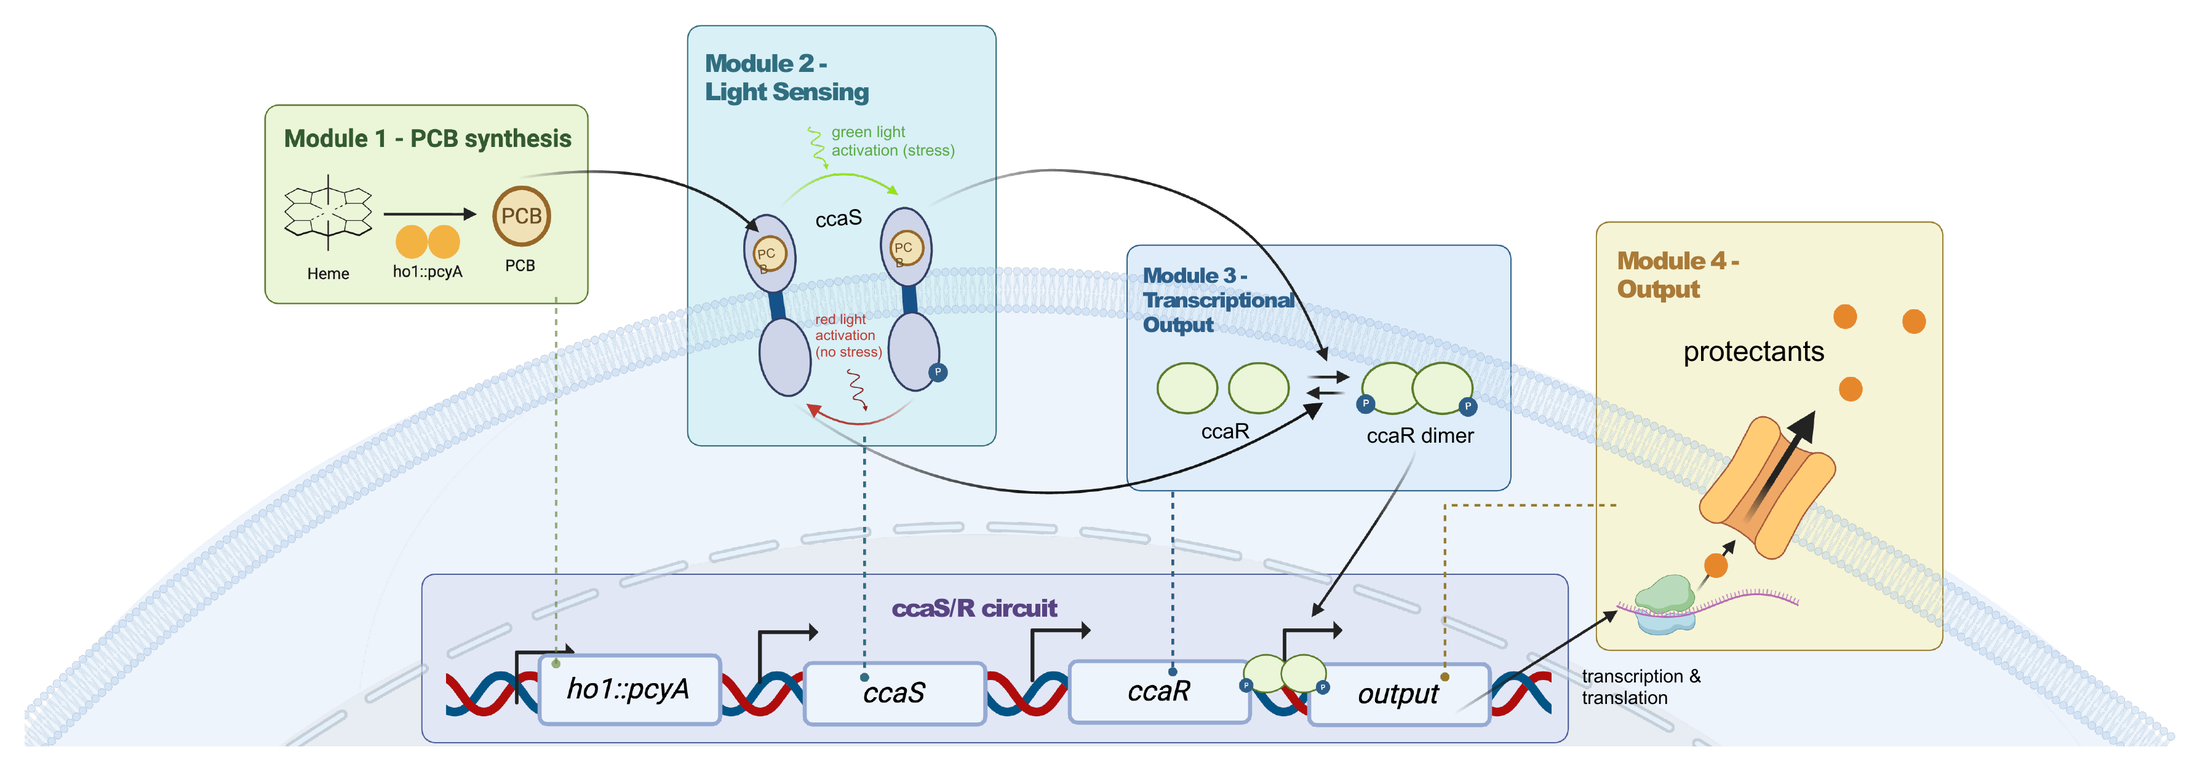
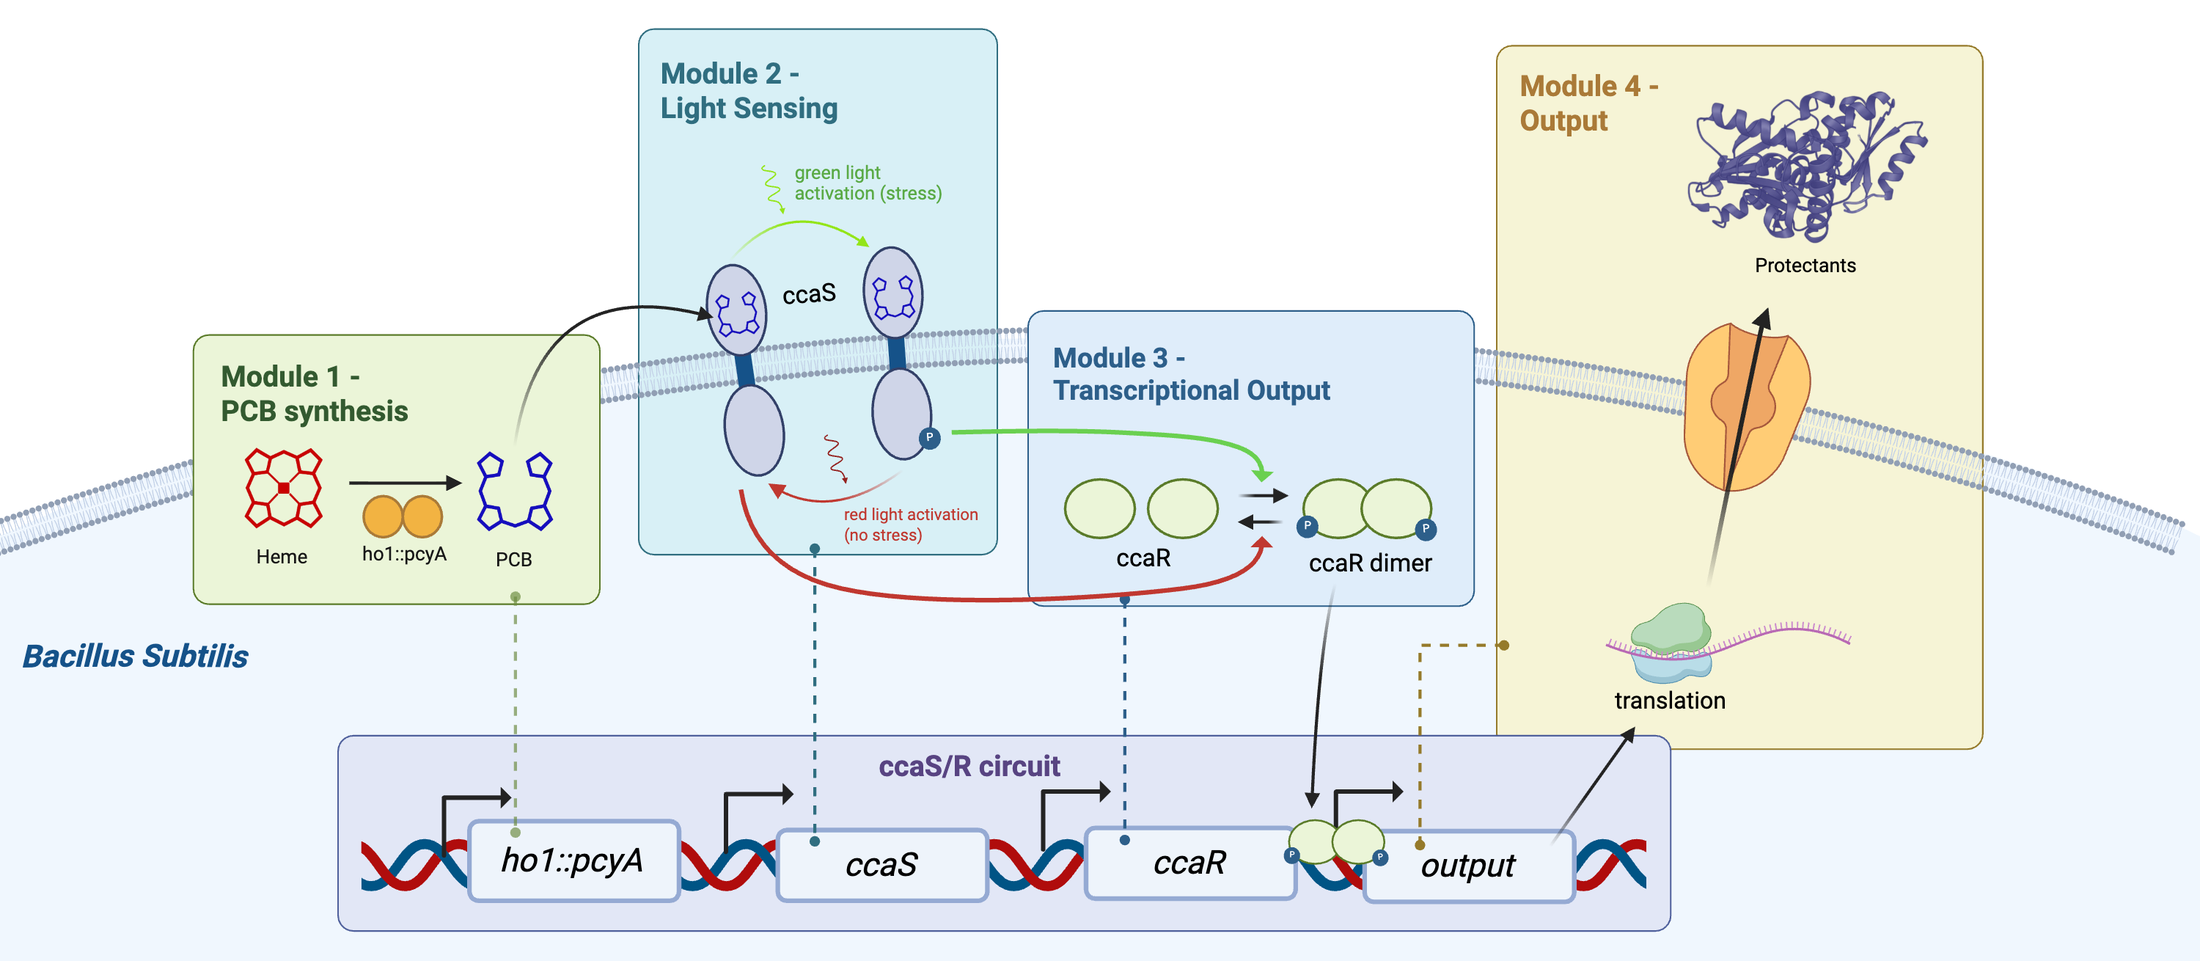
Homepage: line breaks, the new circuit figure, and a smaller nav card
- Hero caption breaks after "with", so the machine's name starts the
  second line instead of a stranded "a".
- Circuit step 4 no longer names the three proteins: "the output slot
  takes multiple protectants for different plant stresses".
- The vision gloss holds one line and never breaks. It is about 31 times
  its own font size wide, so below the width that fits it takes the
  viewport's measure; a phone wraps it instead. The &nbsp; that held
  "plant protection" together is gone with the old balance.
- The circuit figure is the team's new drawing, trimmed of the blank top
  38% of the source and rebuilt at 2200/1400 (now 3:1.3, was 2.85:1).
  Protectants are plural in it, which is what step 4 now says.
- The footer drops the repository and the no-external-requests lines ON
  THE HOMEPAGE ONLY; the other 75 pages still carry them.
- The nav dropdown is smaller: 58px circles, 1.1rem titles, less padding.
  Engagement's card is 178px tall, was 221. nav.css is shared by every
  page, so this lands site-wide.
- ?v= 20261009-home09.

diff --git a/index.html b/index.html
@@ -13,20 +13,20 @@
   <link rel="stylesheet" href="assets/css/nav.css" />
   <link rel="stylesheet" href="assets/css/page.css" />
   <!-- ?v= on the homepage's own sheets and scripts: see the note above the scripts -->
-  <link rel="stylesheet" href="assets/css/home.css?v=20261009-home08" />
-  <link rel="stylesheet" href="assets/css/home-problem.css?v=20261009-home08" />
-  <link rel="stylesheet" href="assets/css/home-threat.css?v=20261009-home08" />
-  <link rel="stylesheet" href="assets/css/home-safe.css?v=20261009-home08" />
-  <link rel="stylesheet" href="assets/css/home-hour.css?v=20261009-home08" />
-  <link rel="stylesheet" href="assets/css/home-reactor.css?v=20261009-home08" />
-  <link rel="stylesheet" href="assets/css/home-vision.css?v=20261009-home08" />
-  <link rel="stylesheet" href="assets/css/big-picture-v4.css?v=20261009-home08" />
-  <link rel="stylesheet" href="assets/css/home-voices.css?v=20261009-home08" />
+  <link rel="stylesheet" href="assets/css/home.css?v=20261009-home09" />
+  <link rel="stylesheet" href="assets/css/home-problem.css?v=20261009-home09" />
+  <link rel="stylesheet" href="assets/css/home-threat.css?v=20261009-home09" />
+  <link rel="stylesheet" href="assets/css/home-safe.css?v=20261009-home09" />
+  <link rel="stylesheet" href="assets/css/home-hour.css?v=20261009-home09" />
+  <link rel="stylesheet" href="assets/css/home-reactor.css?v=20261009-home09" />
+  <link rel="stylesheet" href="assets/css/home-vision.css?v=20261009-home09" />
+  <link rel="stylesheet" href="assets/css/big-picture-v4.css?v=20261009-home09" />
+  <link rel="stylesheet" href="assets/css/home-voices.css?v=20261009-home09" />
   <!-- one sheet per section team, added 29 Sep; each is owned by one section -->
-  <link rel="stylesheet" href="assets/css/home-hero.css?v=20261009-home08" />
-  <link rel="stylesheet" href="assets/css/home-demands.css?v=20261009-home08" />
-  <link rel="stylesheet" href="assets/css/home-sponsors.css?v=20261009-home08" />
-  <link rel="stylesheet" href="assets/css/home-explore.css?v=20261009-home08" />
+  <link rel="stylesheet" href="assets/css/home-hero.css?v=20261009-home09" />
+  <link rel="stylesheet" href="assets/css/home-demands.css?v=20261009-home09" />
+  <link rel="stylesheet" href="assets/css/home-sponsors.css?v=20261009-home09" />
+  <link rel="stylesheet" href="assets/css/home-explore.css?v=20261009-home09" />
 </head>
 <body>
 <!-- =============================================================================
@@ -111,7 +111,7 @@
     <div class="hero__inner">
       <div class="hero__head">
         <h1 class="hero__claim">Every Farmer a Biomanufacturer</h1>
-        <p class="hero__caption"><span>Empowering future farmers to combat climate change with a</span> <span>Stress-Responsive Optogenetic Bioreactor for Precision Plant Protection</span></p>
+        <p class="hero__caption"><span>Empowering future farmers to combat climate change with</span> <span>a Stress-Responsive Optogenetic Bioreactor for Precision Plant Protection</span></p>
       </div>
 
       <!-- Bottom right: Farmer Chen's words from the team's 21 July visit
@@ -550,8 +550,8 @@
                aria-label="The CcaS/CcaR circuit in four modules. Scrolls sideways on a narrow screen.">
             <picture>
               <source type="image/webp" srcset="assets/img/home/synbio-modules-1400.webp 1400w, assets/img/home/synbio-modules-2200.webp 2200w" sizes="(min-width:1280px) 1200px, (max-width:740px) 60rem, 100vw" />
-              <img src="assets/img/home/synbio-modules-2200.png" width="2200" height="771" loading="lazy"
-                   alt="The four-module CcaS/CcaR circuit in B. subtilis. Module 1, heme converted to phycocyanobilin by ho1 and pcyA. Module 2, CcaS in the membrane binding phycocyanobilin and autophosphorylating under green light, reversed by red light. Module 3, phosphate passed to CcaR, which dimerises. Module 4, the CcaR dimer driving transcription and translation of the protectant, which is then secreted." />
+              <img src="assets/img/home/synbio-modules-2200.png" width="2200" height="961" loading="lazy"
+                   alt="The four-module CcaS/CcaR circuit in B. subtilis. Module 1, heme converted to phycocyanobilin by ho1 and pcyA. Module 2, CcaS in the membrane binding phycocyanobilin and autophosphorylating under green light, reversed by red light. Module 3, phosphate passed to CcaR, which dimerises. Module 4, the CcaR dimer driving transcription and translation of the protectants, which are then secreted." />
             </picture>
           </div>
         </div>
@@ -579,7 +579,8 @@
             <span class="sb-step__n" aria-hidden="true">4</span>
             <h3 class="sb-step__t">Secrete the protectant</h3>
             <p class="sb-step__p">The cell makes the protectant and secretes it into the
-            medium. The output slot takes ACC deaminase, LEA14 or BoPep4.</p>
+            medium. The output slot takes multiple protectants for different plant
+            stresses.</p>
           </li>
         </ol>
 
@@ -1026,7 +1027,7 @@
         <div class="vl-sky">
           <div class="band__inner">
             <h2 class="vl-line" id="vision-title"><span>Every farmer</span><span>a biomanufacturer<span class="vl-stop">.</span></span></h2>
-            <p class="vl-gloss">Toward a future where plant&nbsp;protection lies in each farmer&rsquo;s hands.</p>
+            <p class="vl-gloss">Toward a future where plant protection lies in each farmer&rsquo;s hands.</p>
           </div>
         </div>
       </div>
@@ -1167,8 +1168,6 @@
       <div class="footer2__legal">
         <p><b>ReLEAF</b> &middot; GEMS Taiwan &middot; iGEM 2026 &middot; Biomanufacturing Village</p>
         <p>&copy; 2026 &middot; Content on this wiki is licensed under a <a href="https://creativecommons.org/licenses/by/4.0/" rel="license">Creative Commons Attribution 4.0 International license</a>.</p>
-        <p>The repository used to create this website is available at <a href="https://gitlab.igem.org/2026/gems-taiwan">gitlab.igem.org/2026/gems-taiwan</a>.</p>
-        <p>Nothing on this wiki is fetched from a server outside iGEM.</p>
       </div>
     </div>
   </footer>
@@ -1190,9 +1189,9 @@
        ?v= on the homepage's own files: Pages lets browsers cache them for 10
        minutes, and an old home.js run against new markup breaks the page.
        Bump it on every deploy that changes one of them. -->
-  <script src="assets/js/home-reactor.js?v=20261009-home08" defer></script>
-  <script src="assets/js/home.js?v=20261009-home08" defer></script>
-  <script src="assets/js/home-vision-data.js?v=20261009-home08" defer></script>
-  <script src="assets/js/home-vision.js?v=20261009-home08" defer></script>
+  <script src="assets/js/home-reactor.js?v=20261009-home09" defer></script>
+  <script src="assets/js/home.js?v=20261009-home09" defer></script>
+  <script src="assets/js/home-vision-data.js?v=20261009-home09" defer></script>
+  <script src="assets/js/home-vision.js?v=20261009-home09" defer></script>
 </body>
 </html>

diff --git a/assets/css/nav.css b/assets/css/nav.css
@@ -146,7 +146,8 @@
   to   { opacity: 1; transform: none; }
 }
 
-.sitenav__panelinner { padding: 1.75rem 1rem; }
+/* 9 Oct (owner): the card sits a little smaller */
+.sitenav__panelinner { padding: 1.5rem 1rem; }
 
 /* an invisible bridge over the gap above the card, so the pointer can travel
    from the tab down into the card without the card closing */
@@ -230,8 +231,8 @@
   grid-template-columns: none;
   justify-items: center;
   align-content: start;
-  gap: .9rem;
-  padding: .4rem .75rem .6rem;
+  gap: .8rem;
+  padding: .4rem .7rem .55rem;
   border-radius: 0;
   text-align: center;
   background: none;
@@ -239,14 +240,14 @@
 .sitenav__panel .sitenav__entry + .sitenav__entry { border-left: 1px solid var(--nv-line); }
 .sitenav__panel .sitenav__entry::before { display: none; }
 .sitenav__panel .sitenav__tile {
-  width: 64px; height: 64px;
+  width: 58px; height: 58px;
   border-radius: 50%;
   transition: background .22s, color .22s, transform .22s;
 }
-.sitenav__panel .sitenav__tile svg { width: 30px; height: 30px; }
+.sitenav__panel .sitenav__tile svg { width: 28px; height: 28px; }
 .sitenav__panel .sitenav__entry:hover .sitenav__tile { transform: translateY(-2px); }
 .sitenav__panel .sitenav__entrytitle {
-  font-size: 1.175rem; font-weight: 700;
+  font-size: 1.1rem; font-weight: 700;
   text-wrap: balance;
 }
 

diff --git a/assets/css/home-vision.css b/assets/css/home-vision.css
@@ -142,8 +142,11 @@
    the full stop (a span inside the second half) stays on the line */
 .vl-line > span { display: block; white-space: nowrap; }
 .vl-gloss {
-  margin: var(--sp-4) 0 0; max-width: 46ch; text-wrap: balance;
-  font-size: var(--text-lede); line-height: 1.5;
+  /* 9 Oct (owner): one line, never broken. It is about 33 times its own font
+     size wide, so below the width where that fits it takes the viewport's
+     measure instead of --text-lede. Re-measure if the words change. */
+  margin: var(--sp-4) 0 0; max-width: none; white-space: nowrap;
+  font-size: min(var(--text-lede), 2.9vw); line-height: 1.5;
   color: var(--leaf-100);
 }
 /* A soft dark halo keeps the words at reading contrast wherever the sky
@@ -168,7 +171,8 @@
 @media (max-height: 760px) and (min-width: 640px) {
   #vision.vl { --vl-pad: 1.25rem; --vl-fs: clamp(2rem, .8rem + 3.3vw, 3.6rem); }
 }
-@media (max-width: 639px) { .vl-gloss { font-size: var(--text-base); } }
+/* a phone cannot hold it on one line at a readable size: it wraps there */
+@media (max-width: 639px) { .vl-gloss { white-space: normal; text-wrap: balance; font-size: var(--text-base); } }
 @media (max-width: 420px) { #vision.vl { --vl-fs: clamp(1.9rem, 9.4vw, 2.4rem); } }
 
 /* ------------------------------------------------ 7 Oct (owner) ---------- */
